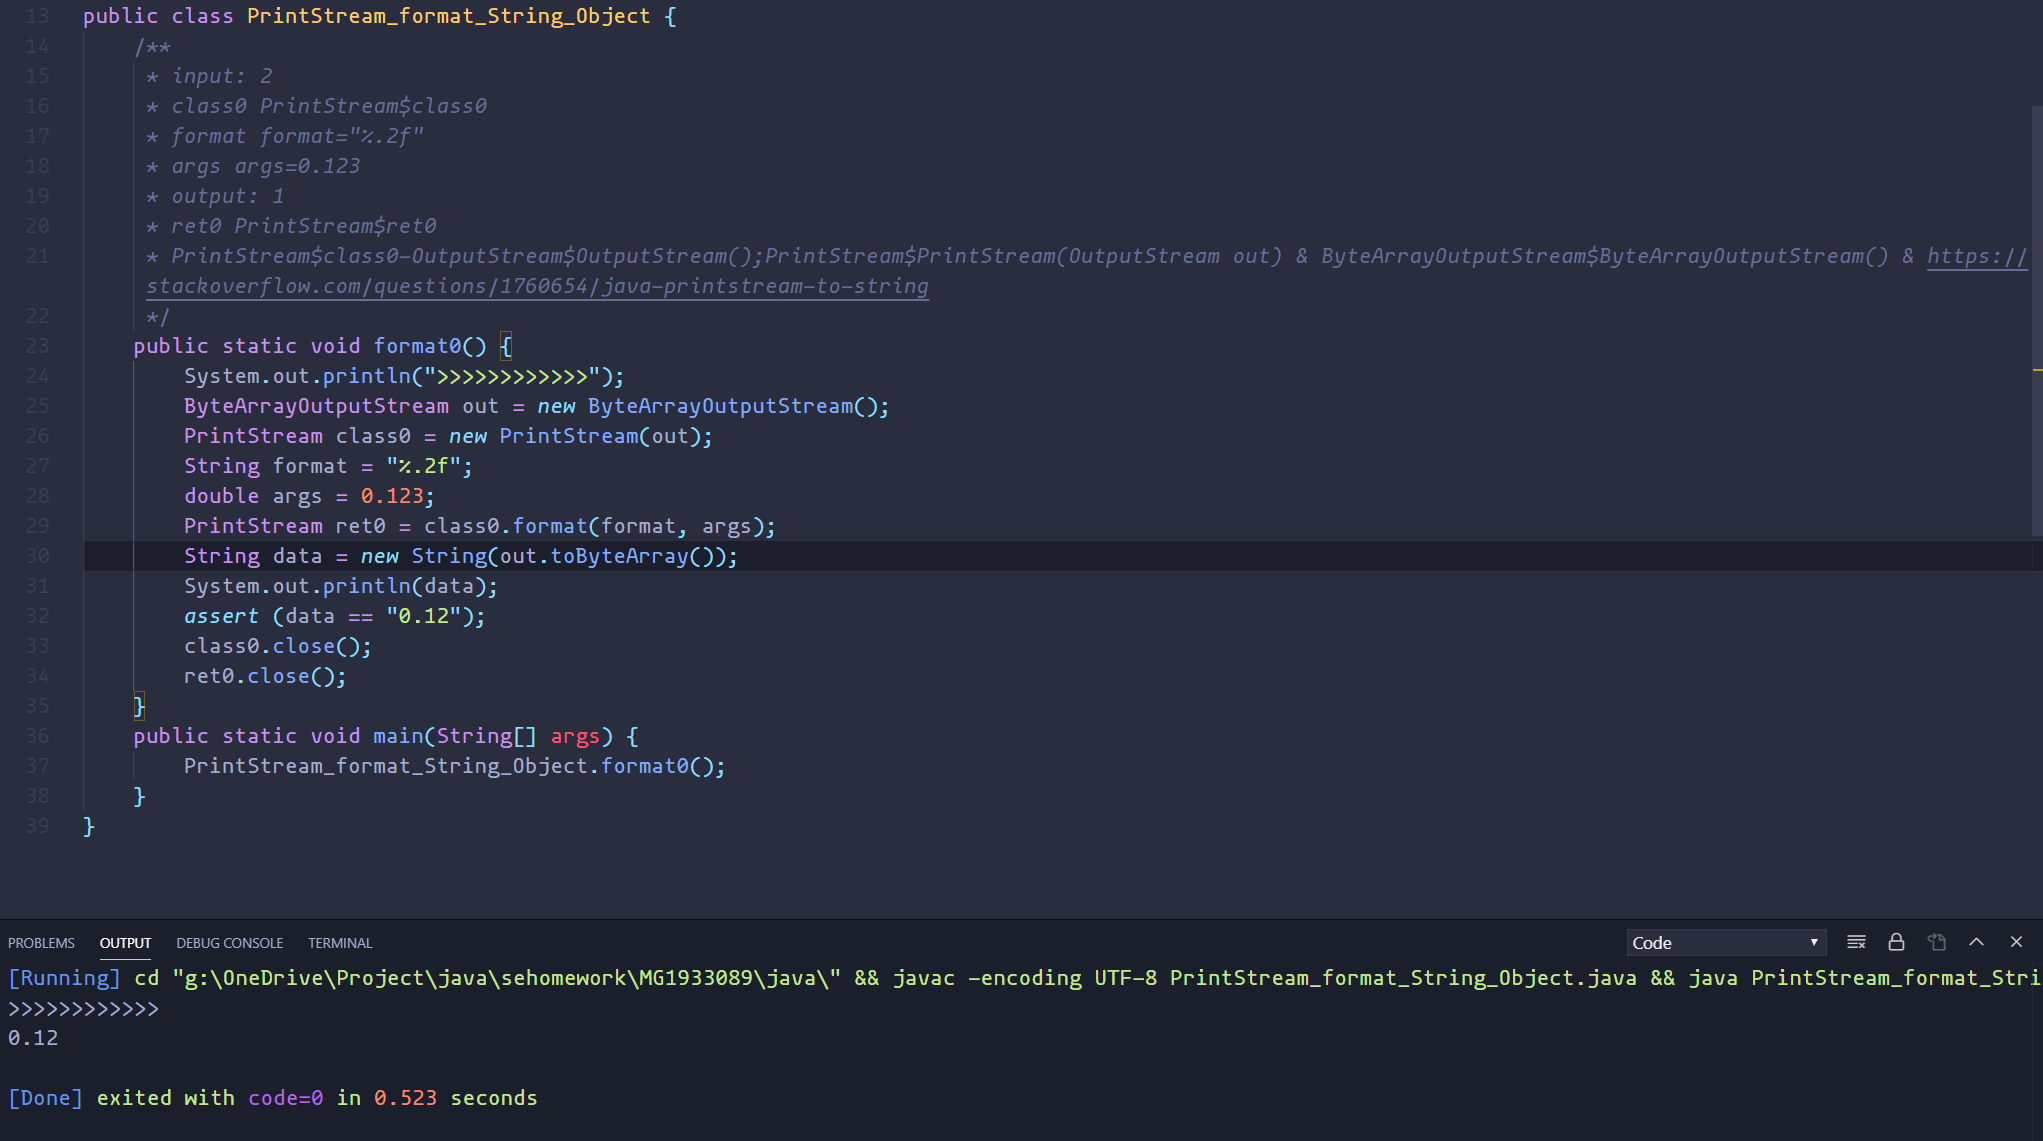
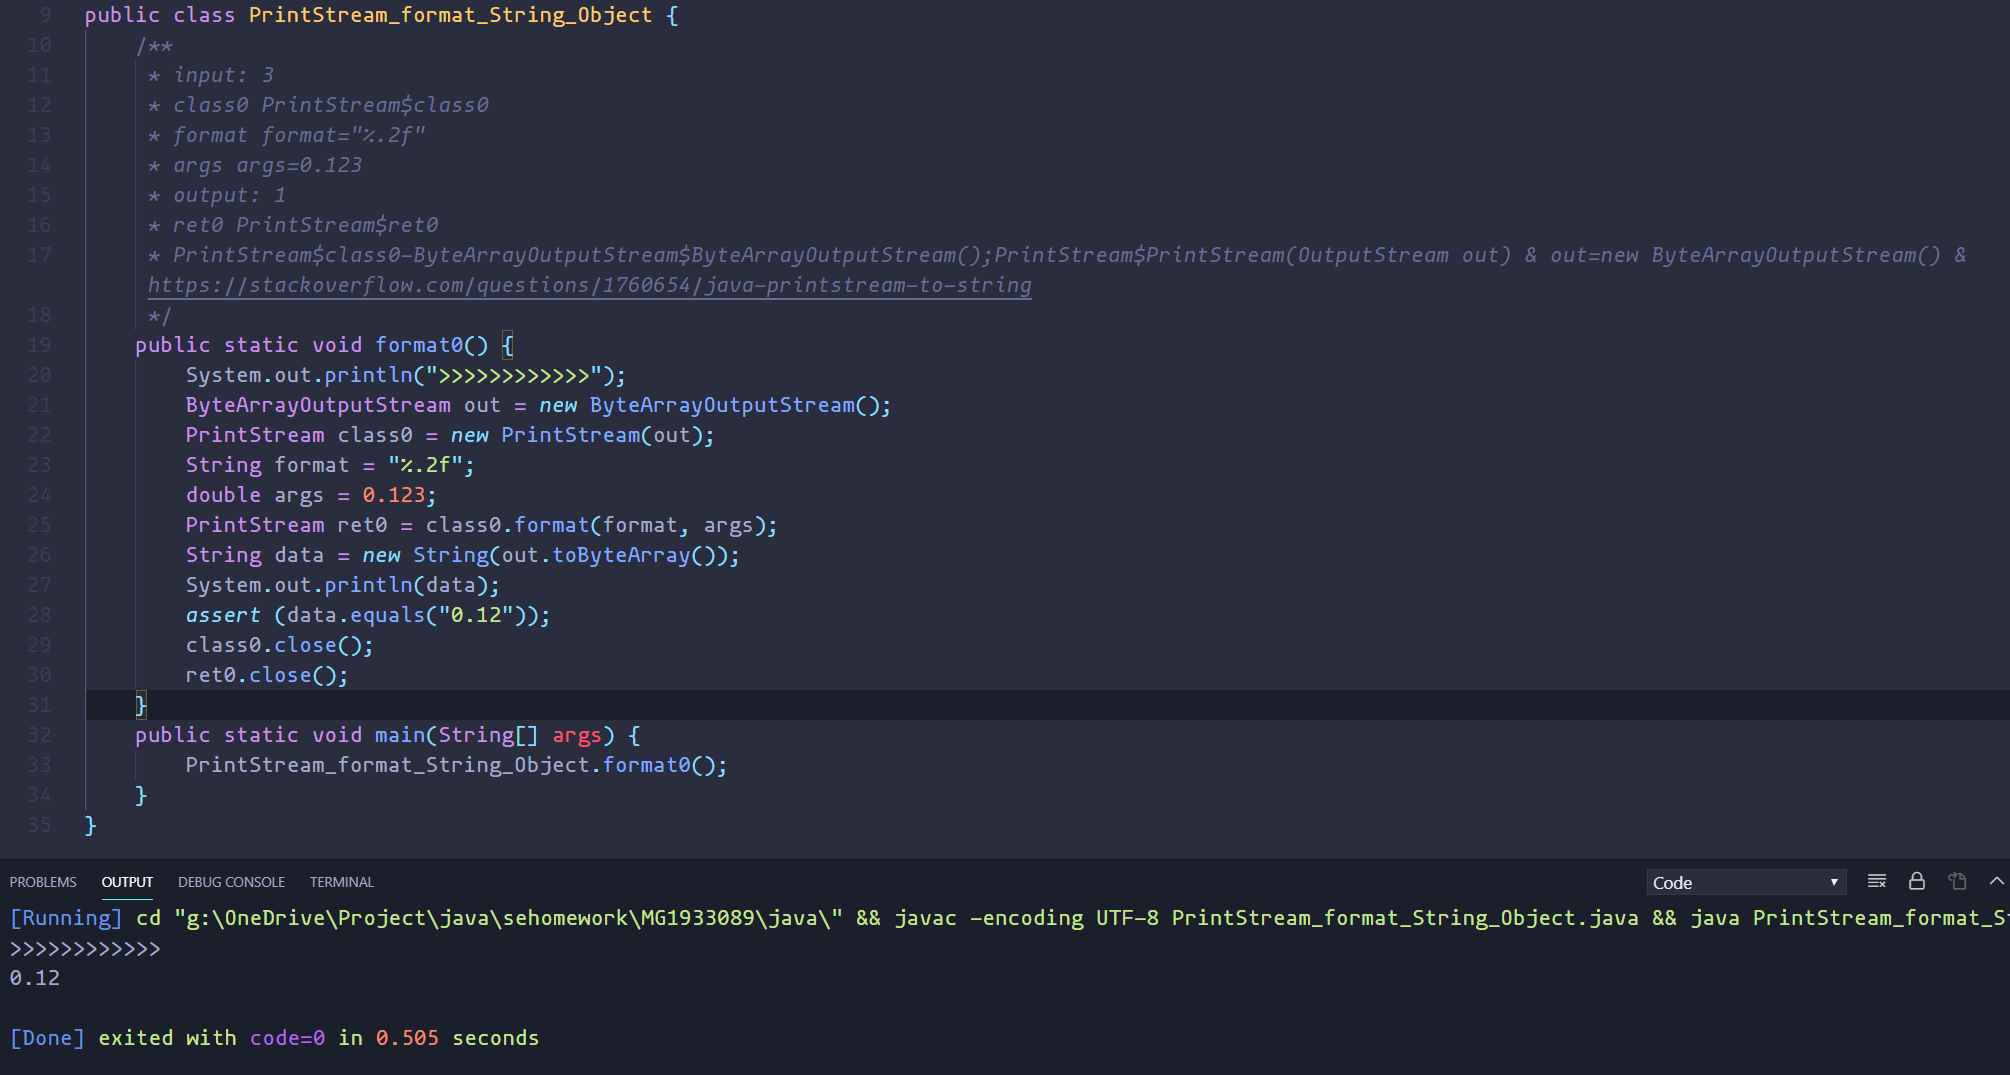
review+2

Changed region(s): [[0.0308, 0.0, 1.0, 0.7367], [0.0, 0.7981, 1.0, 0.9209], [0.0, 0.9516, 0.2776, 0.9823]]

diff --git a/MG1933089/swift/String_suffix_String$Index__String_firstIndex_Character.swift b/MG1933089/swift/String_suffix_String$Index__String_firstIndex_Character.swift
@@ -13,10 +13,10 @@ class String_suffix_String$Index__String_firstIndex_Character{
      *class0 class0="hello"
      *from String.Index$from
      *of of="l"
-     *ouput : 2
-     *ret0 ret0="hello"
+     *output : 2
+     *ret0 Substring$ret0="hello"
      *ret1 String.Index$ret1
-     *String.Index$from-String$index(_ i: String.Index, offsetBy n: String.IndexDistance) & String.Index=String$startIndex;offsetBy=0 & https://developer.apple.com/documentation/swift/string
+     *String.Index$from-String$index(_ i: String.Index, offsetBy n: String.IndexDistance) & _=String$startIndex;offsetBy=0 & https://developer.apple.com/documentation/swift/string
      */
     static func suffix_firstIndex0(){
         print(">>>>>>>>")
@@ -36,10 +36,10 @@ class String_suffix_String$Index__String_firstIndex_Character{
      *class0 class0="hello"
      *from String.Index$from
      *of of="e"
-     *ouput:2
-     *ret0 ret0="llo"
+     *output:2
+     *ret0 Substring$ret0="llo"
      *ret1 String.Index$ret1=nil
-     *String.Index$from-String$index(_ i: String.Index, offsetBy n: String.IndexDistance) & String.Index=String$startIndex;offsetBy=2 & https://developer.apple.com/documentation/swift/string
+     *String.Index$from-String$index(_ i: String.Index, offsetBy n: String.IndexDistance) & _=String$startIndex;offsetBy=2 & https://developer.apple.com/documentation/swift/string
     */
     static func suffix_firstIndex1(){
             print(">>>>>>>>")

diff --git a/MG1933089/swift/Stream_close.swift b/MG1933089/swift/Stream_close.swift
@@ -10,8 +10,6 @@ class Stream_close{
      /**
      * input: 1
      * class0 Stream$class0
-     * output: 1
-     * ret0 ret0=-1
      * Stream$class0-InputStream$init(data: Data);Data$init() & data=Data() & https://developer.apple.com/documentation/foundation/inputstream
      */
     static func close0(){
@@ -19,8 +17,8 @@ class Stream_close{
         let class0 = InputStream(data:Data())
         class0.close()
         var data=[UInt8](repeating: 0, count: 1)
-        let ret0=class0?.read(&data, maxLength: 1)
-        assert(ret0 == -1)
+        let len=class0?.read(&data, maxLength: 1)
+        assert(len == -1)
         print("success")
     }
 }

diff --git a/MG1933089/java/String_indexOf_int_int.java b/MG1933089/java/String_indexOf_int_int.java
@@ -4,15 +4,14 @@
  *  @apiSignature: java.lang.String$public int indexOf(int ch, int fromIndex)
  *  @description: Test java api java.lang.String$indexOf(int ch, int fromIndex)
  *  @Map: String$func suffix(through position: String.Index) -> Substring;String$func firstIndex(of element: Character) -> String.Index?
- *  @Map: String$func suffix(through position: String.Index) -> String;String$func index(of element: Character) -> String.Index?
  */
 public class String_indexOf_int_int {
     /**
-     * input: 2
+     * input: 3
      * class0 class0="hello"
      * ch ch=108
      * fromIndex fromIndex=0
-     * output: 2
+     * output: 1
      * ret0  ret0=2
      */
     public  static void indexOf0(){
@@ -23,7 +22,7 @@ public class String_indexOf_int_int {
         System.out.println(ret0);
     }
     /**
-     * input: 2
+     * input: 3
      * class0 class0="hello"
      * ch ch=101
      * fromIndex fromIndex=0

diff --git a/MG1933089/java/PrintStream_format_String_Object.java b/MG1933089/java/PrintStream_format_String_Object.java
@@ -2,13 +2,13 @@ import java.io.*;
 
 /***
  * @author: MG1933089 袁新雨
- *  @className: PrintStream_format_String_Object$PrintStream
+ *  @className: PrintStream_format_String_Object
  *  @apiSignature: java.io.PrintStream$public PrintStream format(String format, Object... args)
  *  @description: Test java api java.io.PrintStream$format(String format, Object... args)
  */
 public class PrintStream_format_String_Object {
     /**
-     * input: 2
+     * input: 3
      * class0 PrintStream$class0
      * format format="%.2f"
      * args args=0.123

diff --git a/MG1933089/java/InputStream_close.java b/MG1933089/java/InputStream_close.java
@@ -9,7 +9,7 @@ import java.io.*;
  */
 public class InputStream_close {
     /**
-     * input: 0
+     * input: 1
      * class0 InputStream$class0
      * output: 0
      * InputStream$class0-System$in & & https://docs.oracle.com/en/java/javase/13/docs/api/java.base/java/io/InputStream.html
